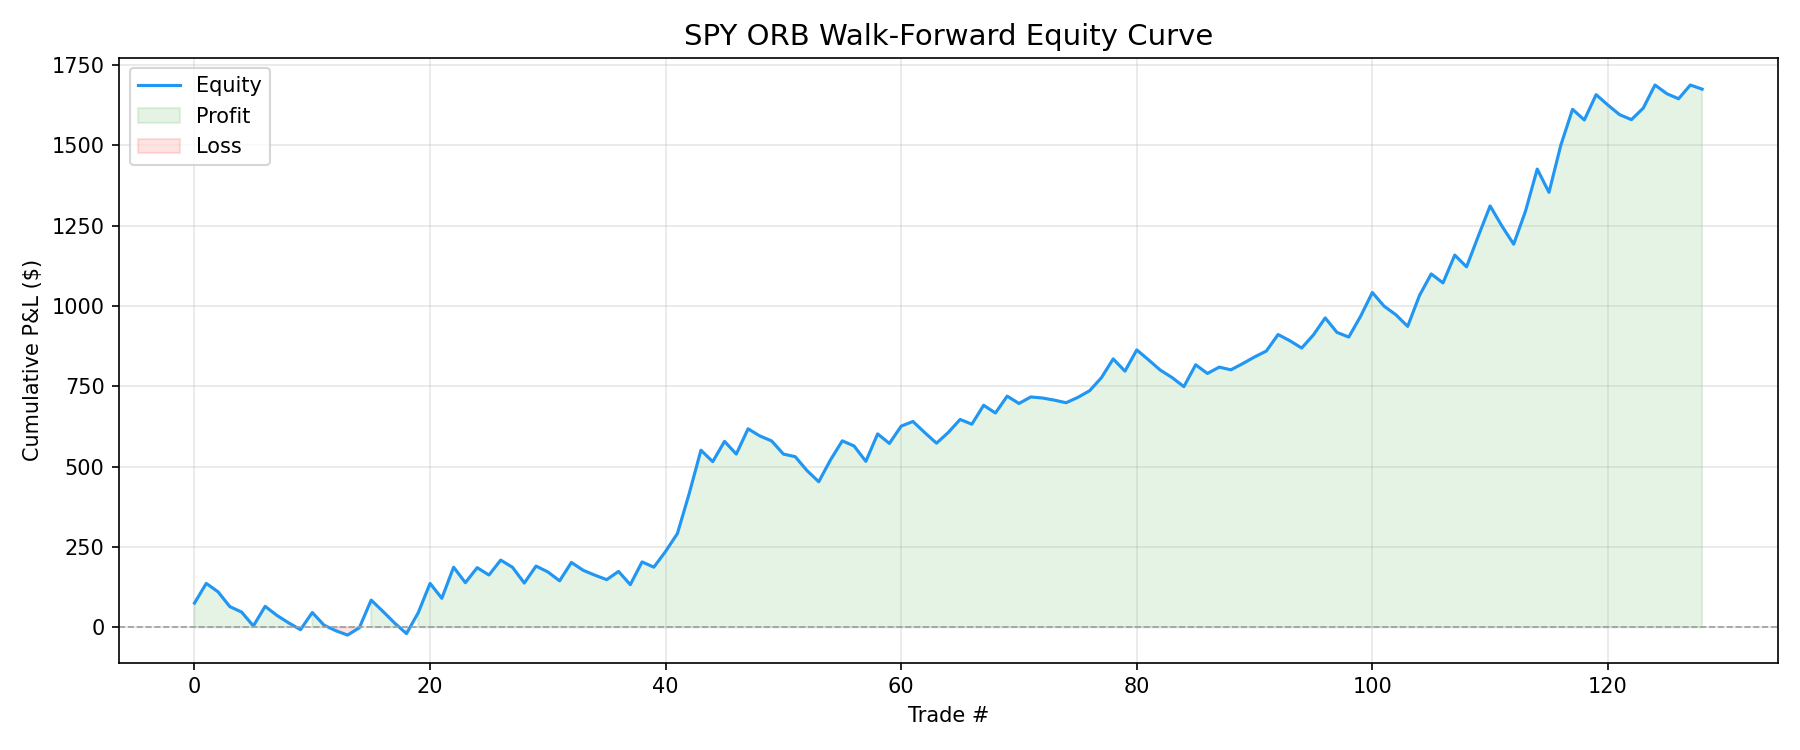
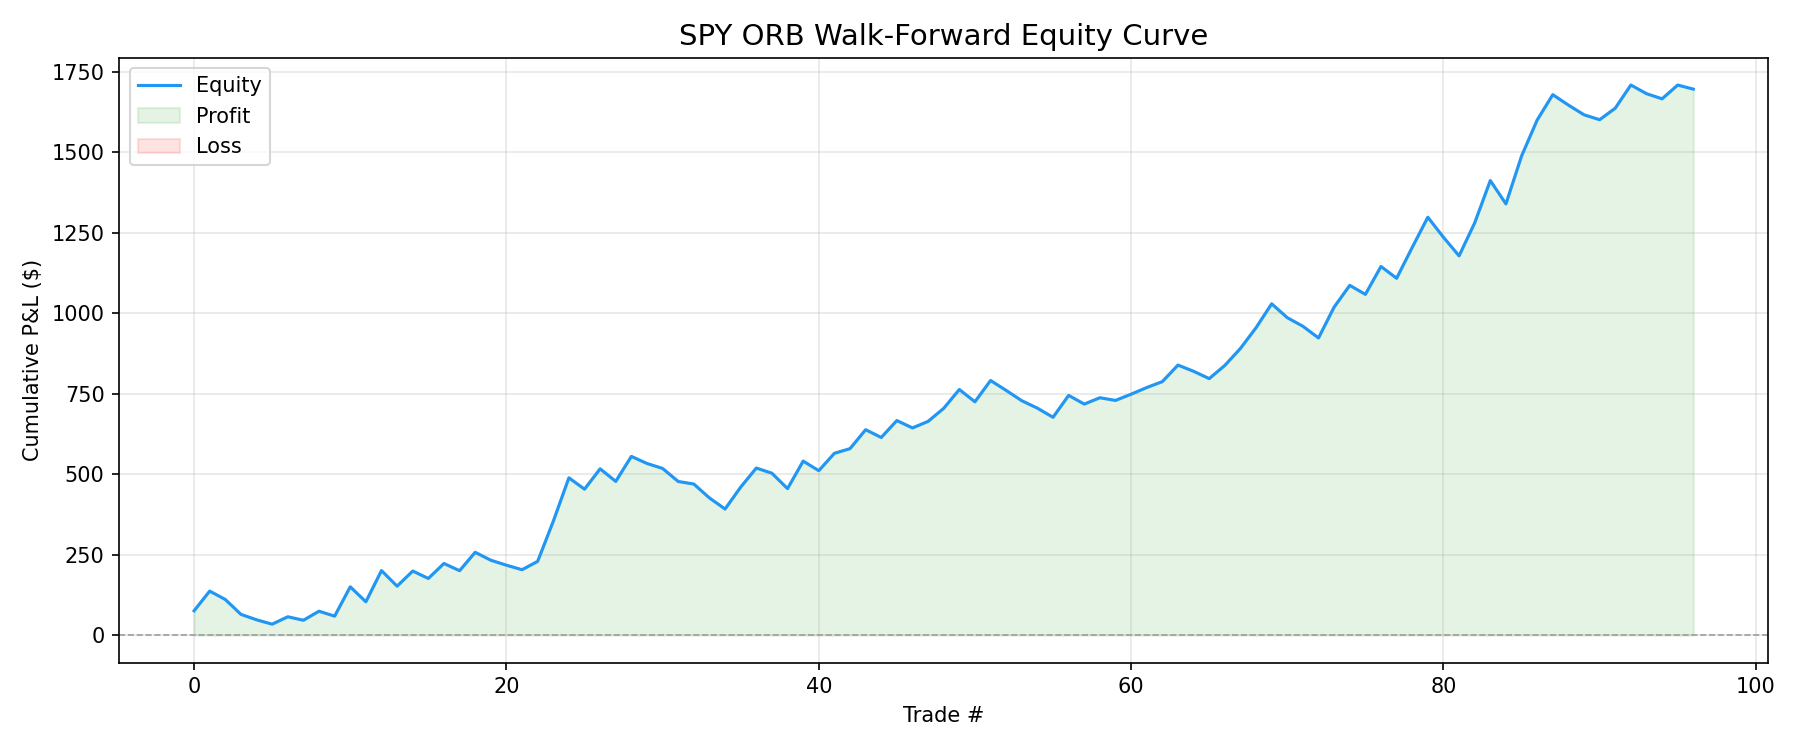
Tier 2C: gap filter — PF 1.83 to 2.19

diff --git a/src/backtest/engine.py b/src/backtest/engine.py
@@ -16,6 +16,15 @@ Design notes
   EMA is computed by resampling 1-min to 15-min, shifted 1 bar, forward-filled back.
 - Dynamic targets: ORB range vs trailing 20-day p25/p75.
   range > p75 → 2.5R target; range < p25 → 1.5R target; else → 2R (default).
+- Gap classification filter (gap-and-go bias):
+    gap = (today_open - prev_day_close) / prev_day_close * 100
+    gap >  +0.3%: LONG only (gap-up momentum favours breakout longs)
+    gap < -0.3%: SHORT only (gap-down momentum favours breakdown shorts)
+    |gap| ≤ 0.3%: both directions allowed (neutral open)
+    NaN (first day): both allowed
+  today_open = first 1-min bar open at 9:30 ET; prev_day_close = last bar close
+  of the preceding trading day.  Both values are known before any ORB signal
+  can fire (ORB signals require ≥5 completed bars), so no lookahead bias.
 - Max 5 trades per calendar day (ET) enforced in next().
 - ORB range filter: skips days where range < min_orb_pct of price.
 - Slippage: $0.02 per share, round-trip (applied via ``Backtest`` argument).
@@ -58,6 +67,7 @@ _MAX_TRADES_PER_DAY = 5
 _MIN_ORB_PCT = 0.0015  # lowered from 0.3% → 0.15% of price (less restrictive)
 _EMA15M_PERIOD = 20  # EMA period on 15-min bars for trend alignment
 _ORB_RANGE_WINDOW = 20  # trailing days for ORB range percentiles
+_GAP_THRESHOLD_PCT = 0.3  # ±0.3% gap separates directional bias from neutral
 
 
 # ── helpers ───────────────────────────────────────────────────────────────────
@@ -85,6 +95,98 @@ def _to_et_index(index: pd.DatetimeIndex) -> pd.DatetimeIndex:
     if index.tzinfo is None:
         index = index.tz_localize("UTC")
     return index.tz_convert(_ET_TZ)
+
+
+# ── Gap classification ────────────────────────────────────────────────────────
+
+
+def _compute_gap_array(
+    index: pd.DatetimeIndex,
+    open_prices: Any,
+    close_prices: Any,
+) -> np.ndarray[Any, np.dtype[np.float64]]:
+    """Pre-compute the daily opening gap percentage for every 1-min bar.
+
+    gap = (today_first_open - prev_day_last_close) / prev_day_last_close * 100
+
+    The gap is the same value for all bars within a trading day.  The first
+    trading day in the dataset returns NaN (no prior day available).
+
+    Zero lookahead: ``today_first_open`` is the open of the 9:30 ET bar;
+    ORB signals require at least 5 completed bars (≥9:35 ET), so the gap
+    is always known before any signal can fire.
+
+    Args:
+        index:        UTC DatetimeIndex aligned with the price arrays.
+        open_prices:  Numpy-like array of bar open prices.
+        close_prices: Numpy-like array of bar close prices.
+
+    Returns:
+        Float64 numpy array of length ``len(index)``.  NaN for the first
+        trading day; percentage gap (e.g. 0.5 = +0.5%) for all other days.
+    """
+    open_arr = np.asarray(open_prices, dtype=float)
+    close_arr = np.asarray(close_prices, dtype=float)
+    n = len(index)
+    gap_out = np.full(n, np.nan)
+
+    et_index = _to_et_index(index)
+
+    # Build ordered list of trading dates → bar positions
+    dates: list[Any] = []
+    date_to_positions: dict[Any, list[int]] = {}
+    for i, ts in enumerate(et_index):
+        d = ts.date()
+        if d not in date_to_positions:
+            dates.append(d)
+            date_to_positions[d] = []
+        date_to_positions[d].append(i)
+
+    for idx_d in range(1, len(dates)):  # skip first day (no prior day)
+        d = dates[idx_d]
+        d_prev = dates[idx_d - 1]
+
+        positions_today = date_to_positions[d]
+        positions_prev = date_to_positions[d_prev]
+
+        if not positions_today or not positions_prev:
+            continue
+
+        today_open = open_arr[positions_today[0]]  # first bar open at 9:30
+        prev_close = close_arr[positions_prev[-1]]  # last bar close yesterday
+
+        if prev_close <= 0 or np.isnan(prev_close) or np.isnan(today_open):
+            continue
+
+        gap_pct = (today_open - prev_close) / prev_close * 100.0
+        for pos in positions_today:
+            gap_out[pos] = gap_pct
+
+    return gap_out
+
+
+def _classify_gap(gap_pct: float, threshold: float) -> tuple[bool, bool]:
+    """Classify a gap and return (allows_long, allows_short) directional flags.
+
+    Args:
+        gap_pct:   Opening gap in percent (e.g. 0.5 = +0.5%, -0.4 = -0.4%).
+                   Pass ``float('nan')`` for the first trading day.
+        threshold: Absolute gap percentage that separates directional bias
+                   from neutral (default ``_GAP_THRESHOLD_PCT`` = 0.3).
+
+    Returns:
+        ``(allows_long, allows_short)`` tuple:
+        - Gap up  (> +threshold): (True, False)  — LONG only
+        - Gap down (< -threshold): (False, True) — SHORT only
+        - Flat / NaN              : (True, True)  — both directions
+    """
+    if np.isnan(gap_pct):
+        return True, True
+    if gap_pct > threshold:
+        return True, False
+    if gap_pct < -threshold:
+        return False, True
+    return True, True
 
 
 # ── Backtesting.py Strategy ───────────────────────────────────────────────────
@@ -158,6 +260,11 @@ class ORBStrategy(Strategy):  # type: ignore[misc]
         self.orb_p25 = self.I(lambda: orb_p25_arr, name="ORB_P25")
         self.orb_p75 = self.I(lambda: orb_p75_arr, name="ORB_P75")
 
+        # Daily gap classification (no lookahead: gap known at 9:30, ORB fires >=9:35)
+        open_arr_for_gap = np.asarray(self.data.Open, dtype=float)
+        gap_arr = _compute_gap_array(index, open_arr_for_gap, close_arr)
+        self.gap_pct = self.I(lambda: gap_arr, name="GapPct")
+
         # Daily trade counter state (reset per ET calendar day in next())
         self._last_et_date: date | None = None
         self._daily_trade_count: int = 0
@@ -226,6 +333,10 @@ class ORBStrategy(Strategy):  # type: ignore[misc]
             bullish_trend = True
             bearish_trend = True
 
+        # Gap classification filter
+        gap_val = float(self.gap_pct[-1])
+        gap_allows_long, gap_allows_short = _classify_gap(gap_val, _GAP_THRESHOLD_PCT)
+
         # Dynamic risk multiplier based on ORB range vs trailing 20-day percentiles
         p25 = self.orb_p25[-1]
         p75 = self.orb_p75[-1]
@@ -242,7 +353,7 @@ class ORBStrategy(Strategy):  # type: ignore[misc]
             dynamic_risk_mult = self.risk_mult
 
         # LONG breakout
-        if close > orb_high and bullish_trend:
+        if close > orb_high and bullish_trend and gap_allows_long:
             entry = close
             stop = entry - self.atr_mult * atr
             risk = entry - stop
@@ -253,7 +364,7 @@ class ORBStrategy(Strategy):  # type: ignore[misc]
             self._daily_trade_count += 1
 
         # SHORT breakdown
-        elif close < orb_low and bearish_trend:
+        elif close < orb_low and bearish_trend and gap_allows_short:
             entry = close
             stop = entry + self.atr_mult * atr
             risk = stop - entry

diff --git a/tests/test_backtest.py b/tests/test_backtest.py
@@ -23,7 +23,9 @@ from src.backtest.data_loader import (
     slice_window,
 )
 from src.backtest.engine import (
+    _classify_gap,
     _compute_15m_ema,
+    _compute_gap_array,
     _compute_orb_arrays,
     _compute_orb_percentile_arrays,
     _et_date,
@@ -674,3 +676,134 @@ class TestTradingWindows:
 
         assert not self._in_window(time(15, 30))  # exclusive upper bound
         assert not self._in_window(time(15, 45))
+
+
+# ── TestClassifyGap ───────────────────────────────────────────────────────────
+
+
+class TestClassifyGap:
+    """Unit tests for _classify_gap() pure helper."""
+
+    def test_gap_up_allows_long_blocks_short(self) -> None:
+        allows_long, allows_short = _classify_gap(0.5, 0.3)
+        assert allows_long is True
+        assert allows_short is False
+
+    def test_gap_down_blocks_long_allows_short(self) -> None:
+        allows_long, allows_short = _classify_gap(-0.5, 0.3)
+        assert allows_long is False
+        assert allows_short is True
+
+    def test_flat_gap_allows_both(self) -> None:
+        allows_long, allows_short = _classify_gap(0.0, 0.3)
+        assert allows_long is True
+        assert allows_short is True
+
+    def test_gap_within_threshold_allows_both(self) -> None:
+        allows_long, allows_short = _classify_gap(0.2, 0.3)
+        assert allows_long is True
+        assert allows_short is True
+
+        allows_long2, allows_short2 = _classify_gap(-0.2, 0.3)
+        assert allows_long2 is True
+        assert allows_short2 is True
+
+    def test_nan_gap_allows_both(self) -> None:
+        allows_long, allows_short = _classify_gap(float("nan"), 0.3)
+        assert allows_long is True
+        assert allows_short is True
+
+    def test_exact_threshold_boundary_allows_both(self) -> None:
+        # exactly at threshold → not strictly greater, so neutral
+        allows_long, allows_short = _classify_gap(0.3, 0.3)
+        assert allows_long is True
+        assert allows_short is True
+
+        allows_long2, allows_short2 = _classify_gap(-0.3, 0.3)
+        assert allows_long2 is True
+        assert allows_short2 is True
+
+    def test_just_above_threshold_is_directional(self) -> None:
+        allows_long, allows_short = _classify_gap(0.31, 0.3)
+        assert allows_long is True
+        assert allows_short is False
+
+        allows_long2, allows_short2 = _classify_gap(-0.31, 0.3)
+        assert allows_long2 is False
+        assert allows_short2 is True
+
+
+# ── TestComputeGapArray ───────────────────────────────────────────────────────
+
+
+def _make_2day_index(
+    day1_start: datetime | None = None,
+    bars_per_day: int = 390,
+) -> tuple[pd.DatetimeIndex, np.ndarray, np.ndarray]:
+    """Build a 2-day 1-min UTC index with known open/close prices.
+
+    Day 1: open=480.0, close=481.0
+    Day 2: open=483.0, close=482.0  → gap = (483 - 481) / 481 * 100 ≈ +0.416%
+    """
+    if day1_start is None:
+        day1_start = datetime(2024, 1, 16, 14, 30, tzinfo=UTC)  # 9:30 ET
+
+    idx_day1 = pd.date_range(start=day1_start, periods=bars_per_day, freq="1min", tz="UTC")
+    day2_start = day1_start + pd.Timedelta(days=1)
+    idx_day2 = pd.date_range(start=day2_start, periods=bars_per_day, freq="1min", tz="UTC")
+    index = idx_day1.append(idx_day2)
+
+    opens = np.full(len(index), 480.0)
+    opens[bars_per_day:] = 483.0  # day 2 opens at 483
+
+    closes = np.full(len(index), 481.0)  # day 1 closes at 481
+    closes[bars_per_day:] = 482.0  # day 2 closes at 482
+
+    return index, opens, closes
+
+
+class TestComputeGapArray:
+    """Tests for _compute_gap_array()."""
+
+    def test_output_length_matches_index(self) -> None:
+        index, opens, closes = _make_2day_index()
+        result = _compute_gap_array(index, opens, closes)
+        assert len(result) == len(index)
+
+    def test_first_day_is_nan(self) -> None:
+        index, opens, closes = _make_2day_index()
+        result = _compute_gap_array(index, opens, closes)
+        # All 390 bars of day 1 should be NaN
+        assert np.all(np.isnan(result[:390]))
+
+    def test_second_day_gap_value_correct(self) -> None:
+        index, opens, closes = _make_2day_index()
+        result = _compute_gap_array(index, opens, closes)
+        expected_gap = (483.0 - 481.0) / 481.0 * 100.0
+        day2_gaps = result[390:]
+        assert not np.any(np.isnan(day2_gaps))
+        np.testing.assert_allclose(day2_gaps, expected_gap, rtol=1e-9)
+
+    def test_same_value_all_bars_within_day(self) -> None:
+        index, opens, closes = _make_2day_index()
+        result = _compute_gap_array(index, opens, closes)
+        day2_gaps = result[390:]
+        # All bars on day 2 should have identical gap value
+        assert np.all(day2_gaps == day2_gaps[0])
+
+    def test_gap_down_is_negative(self) -> None:
+        index, opens, closes = _make_2day_index()
+        closes[:390] = 485.0  # day 1 closes at 485
+        opens[390:] = 483.0  # day 2 opens at 483 (gap down)
+        result = _compute_gap_array(index, opens, closes)
+        expected_gap = (483.0 - 485.0) / 485.0 * 100.0
+        np.testing.assert_allclose(result[390], expected_gap, rtol=1e-9)
+        assert result[390] < 0
+
+    def test_single_day_all_nan(self) -> None:
+        start = datetime(2024, 1, 15, 14, 30, tzinfo=UTC)
+        index = pd.date_range(start=start, periods=390, freq="1min", tz="UTC")
+        opens = np.full(390, 480.0)
+        closes = np.full(390, 481.0)
+        result = _compute_gap_array(index, opens, closes)
+        assert np.all(np.isnan(result))
